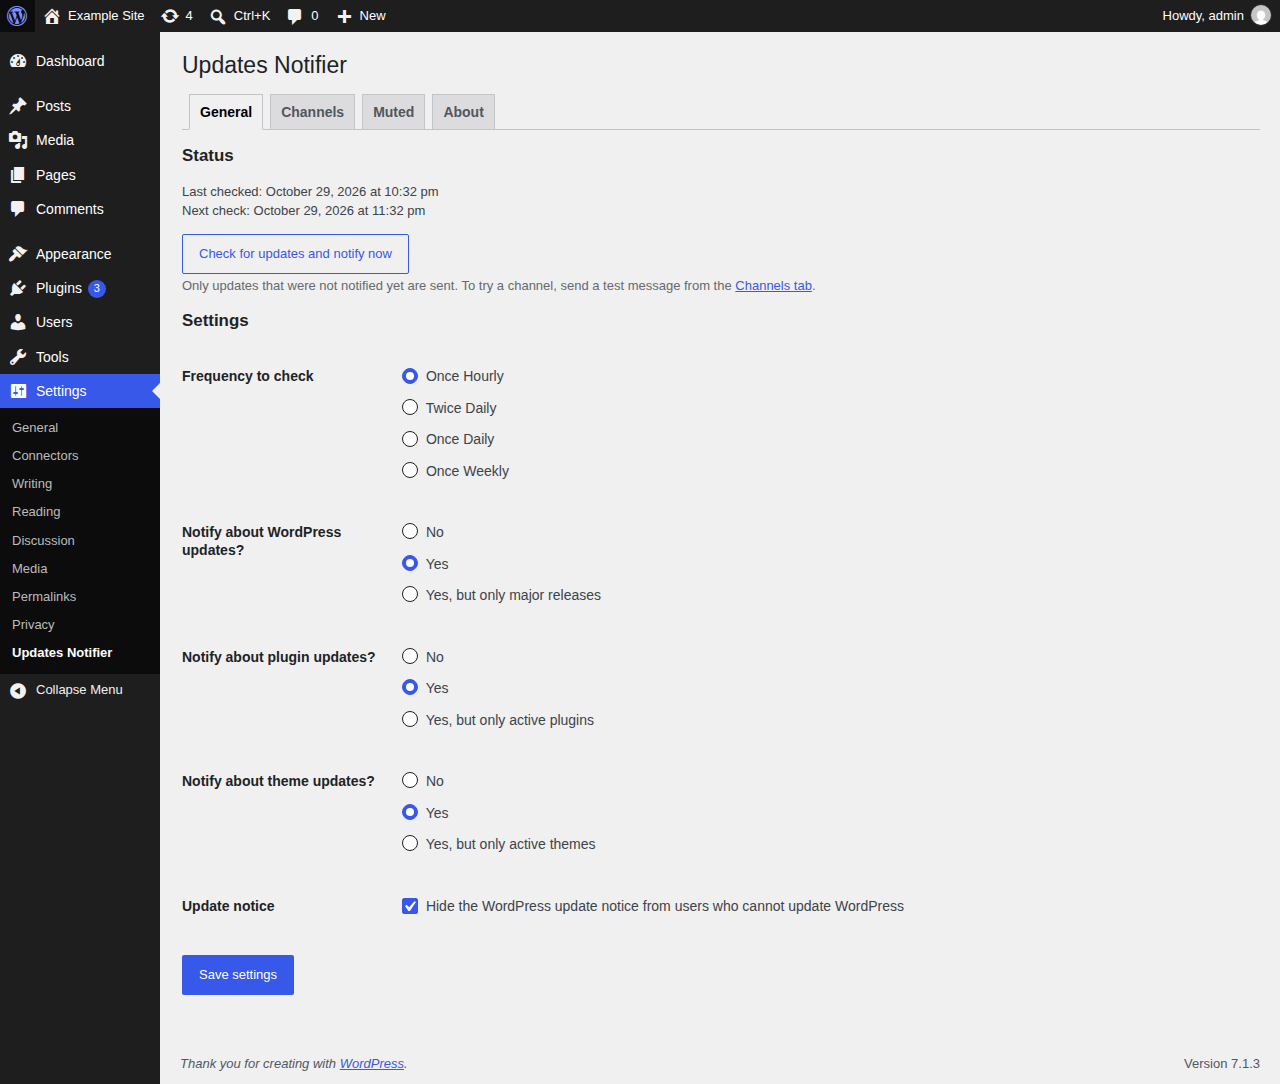
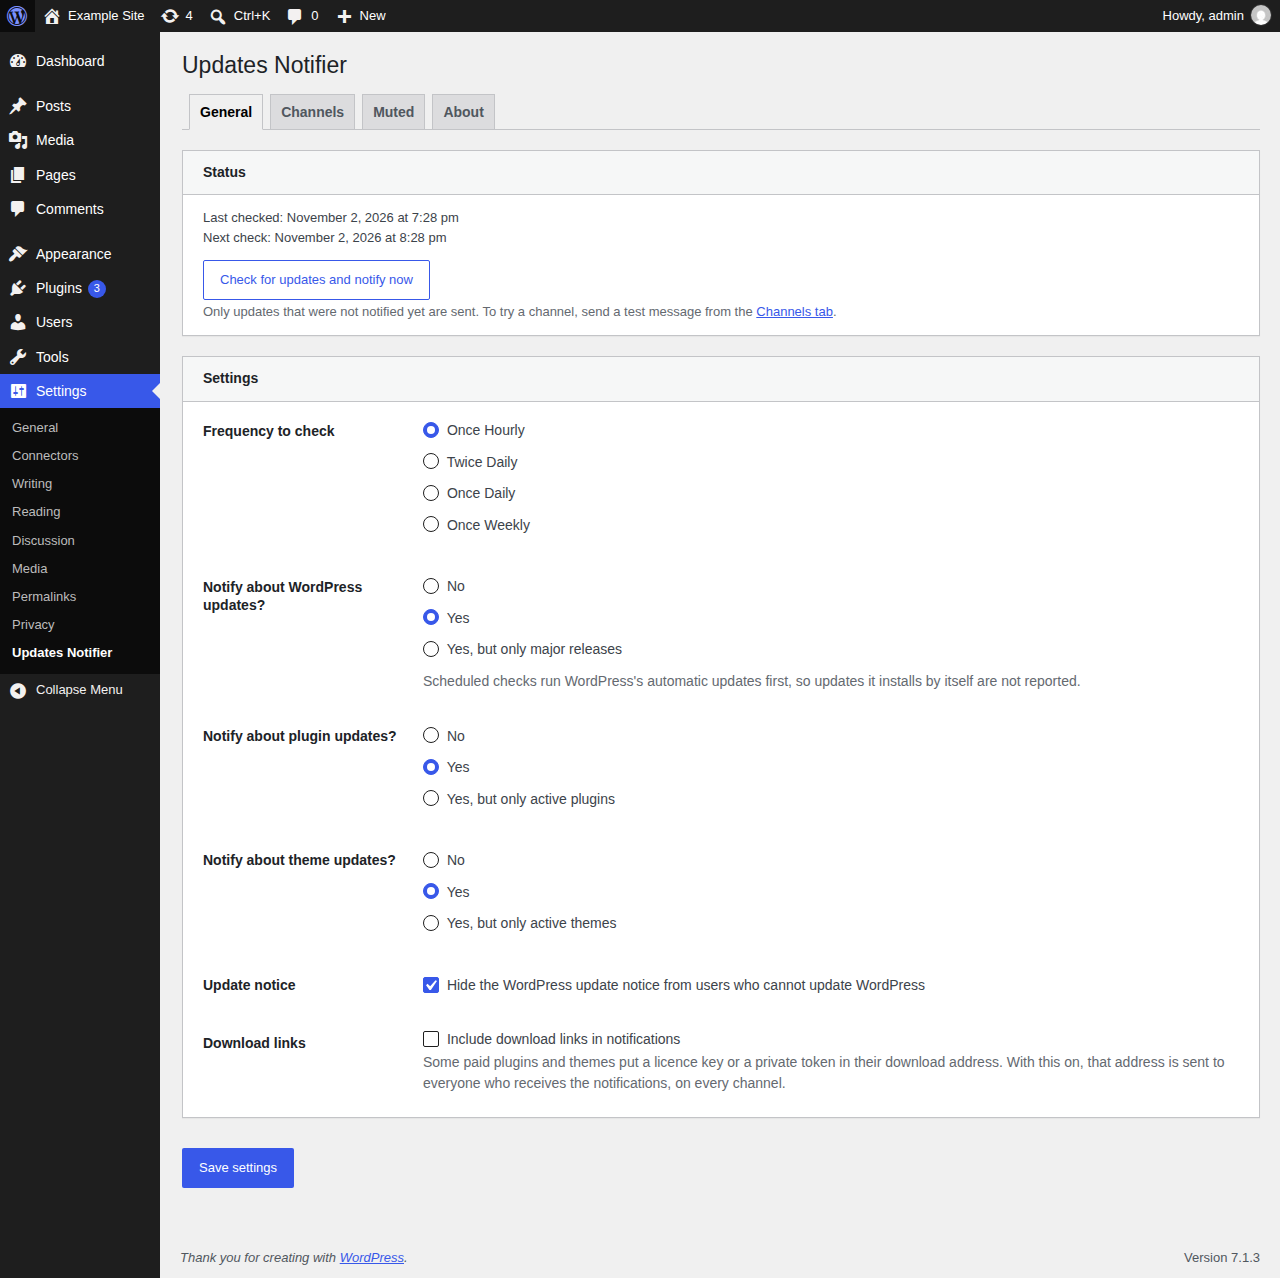
feat(admin): show the general and about tabs as panels
The channel form's sections became postbox-like panels, so the General
and About tabs, still bare headings and form tables, no longer matched.
Status and each About block are now section panels whose h2 is the
title bar, and the settings form is a fieldset panel whose legend holds
its h2, with rows from do_settings_fields(). The heading outline is
unchanged.

The title bar of a collapsed field group was drawn with negative
margins on its summary, which put it off to the right and past the
panel's edge. The details box now has no padding, so the summary fills
it, and the fieldset inside is padded instead.

Screenshot 1 is regenerated.

Refs #372

diff --git a/assets/css/admin.css b/assets/css/admin.css
@@ -65,10 +65,12 @@
 }
 
 /*
- * Sections of the channel form: Channel, Routing, Settings and each field group. Core gives a fieldset no visible frame,
- * so each is a panel like a postbox: a white box with a grey title bar. The legend (or the summary of a collapsed
- * group) is floated so it sits inside the box as that bar instead of on its border.
+ * Panels, like core's postboxes: a white box with a grey title bar. They hold the Status and Settings of the General
+ * tab, the blocks of the About tab, and the sections of the channel form (Channel, Routing, Settings and each field
+ * group). A section of form controls is a fieldset whose legend holds its heading; other content is a section whose
+ * first heading is the bar. Core gives a fieldset no visible frame, hence the box.
  */
+.sc-wpun-panel,
 .sc-wpun-form-section,
 .sc-wpun-field-group,
 .sc-wpun-field-group-details {
@@ -81,9 +83,10 @@
 	box-shadow: 0 1px 1px rgba(0, 0, 0, 0.04);
 }
 
+/* The title bar. A legend is floated so it sits inside the box instead of on its border. */
+.sc-wpun-panel > legend,
 .sc-wpun-form-section > legend,
-.sc-wpun-field-group > legend:not(.screen-reader-text),
-.sc-wpun-field-group-details > summary {
+.sc-wpun-field-group > legend:not(.screen-reader-text) {
 	float: left;
 	box-sizing: border-box;
 	width: calc(100% + 40px);
@@ -93,16 +96,31 @@
 	background: #f6f7f7;
 }
 
+.sc-wpun-panel > .sc-wpun-panel-title {
+	margin: 0 -20px 4px;
+	padding: 12px 20px;
+	border-bottom: 1px solid #c3c4c7;
+	background: #f6f7f7;
+}
+
+.sc-wpun-panel > legend h2,
+.sc-wpun-form-section > legend h3,
+.sc-wpun-field-group > legend h3 {
+	margin: 0;
+}
+
+.sc-wpun-panel > .sc-wpun-panel-title,
+.sc-wpun-panel > legend h2,
 .sc-wpun-form-section > legend h3,
 .sc-wpun-field-group > legend h3,
 .sc-wpun-field-group-details > summary {
-	margin: 0;
 	font-size: 14px;
 	font-weight: 600;
 	line-height: 1.4;
 }
 
-/* What follows the bar starts below it. */
+/* What follows a floated bar starts below it. */
+.sc-wpun-panel > legend + *,
 .sc-wpun-form-section > legend + *,
 .sc-wpun-field-group > legend + * {
 	clear: both;
@@ -112,26 +130,23 @@
 	padding-top: 12px;
 }
 
-/* A collapsed group: the summary is the bar, with core's disclosure triangle, and the fieldset inside has no frame. */
+/*
+ * A collapsed group: the summary is the bar, with the disclosure triangle, and the fieldset inside carries the padding.
+ * The box itself has none, so the bar fills it without negative margins.
+ */
+.sc-wpun-field-group-details {
+	padding: 0;
+}
+
 .sc-wpun-field-group-details > summary {
-	float: none;
 	display: list-item;
+	padding: 12px 20px;
+	background: #f6f7f7;
 	cursor: pointer;
 }
 
-.sc-wpun-field-group-details:not([open]) {
-	padding-bottom: 0;
-}
-
-.sc-wpun-field-group-details:not([open]) > summary {
-	border-bottom: 0;
-}
-
-.sc-wpun-field-group-details > .sc-wpun-field-group {
-	margin: 0;
-	padding: 0;
-	border: 0;
-	box-shadow: none;
+.sc-wpun-field-group-details[open] > summary {
+	border-bottom: 1px solid #c3c4c7;
 }
 
 .sc-wpun-field-group-details > summary:focus-visible {
@@ -139,18 +154,40 @@
 	outline-offset: -2px;
 }
 
+.sc-wpun-field-group-details > .sc-wpun-field-group {
+	margin: 0;
+	padding: 0 20px 8px;
+	border: 0;
+	background: transparent;
+	box-shadow: none;
+}
+
 @media screen and (max-width: 782px) {
+	.sc-wpun-panel,
 	.sc-wpun-form-section,
-	.sc-wpun-field-group,
-	.sc-wpun-field-group-details {
+	.sc-wpun-field-group {
 		padding: 0 12px 8px;
 	}
 
+	.sc-wpun-panel > legend,
 	.sc-wpun-form-section > legend,
-	.sc-wpun-field-group > legend:not(.screen-reader-text),
-	.sc-wpun-field-group-details > summary {
+	.sc-wpun-field-group > legend:not(.screen-reader-text) {
 		width: calc(100% + 24px);
 		margin: 0 -12px;
 		padding: 12px;
+	}
+
+	.sc-wpun-panel > .sc-wpun-panel-title {
+		margin-right: -12px;
+		margin-left: -12px;
+		padding: 12px;
+	}
+
+	.sc-wpun-field-group-details > summary {
+		padding: 12px;
+	}
+
+	.sc-wpun-field-group-details > .sc-wpun-field-group {
+		padding: 0 12px 8px;
 	}
 }

diff --git a/includes/admin/class-about-tab.php b/includes/admin/class-about-tab.php
@@ -68,60 +68,72 @@ class About_Tab {
 		);
 		?>
 		<div class="sc-wpun-about">
-			<h2><?php esc_html_e( 'About the plugin', 'wp-updates-notifier' ); ?></h2>
-			<p><?php esc_html_e( 'WP Updates Notifier checks your site for WordPress core, plugin and theme updates and tells you about each new version once. It is free and open source, with no tracking and no account to sign up for.', 'wp-updates-notifier' ); ?></p>
-			<ul>
-				<li><?php echo wp_kses( $this->link( 'documentation', __( 'Documentation', 'wp-updates-notifier' ) ), $allowed ); ?></li>
-				<li><?php echo wp_kses( $this->link( 'github', __( 'GitHub', 'wp-updates-notifier' ) ), $allowed ); ?></li>
-				<li><?php echo wp_kses( $this->link( 'wordpress_org', __( 'WordPress.org', 'wp-updates-notifier' ) ), $allowed ); ?></li>
-			</ul>
+			<section class="sc-wpun-panel">
+				<h2 class="sc-wpun-panel-title"><?php esc_html_e( 'About the plugin', 'wp-updates-notifier' ); ?></h2>
+				<p><?php esc_html_e( 'WP Updates Notifier checks your site for WordPress core, plugin and theme updates and tells you about each new version once. It is free and open source, with no tracking and no account to sign up for.', 'wp-updates-notifier' ); ?></p>
+				<ul>
+					<li><?php echo wp_kses( $this->link( 'documentation', __( 'Documentation', 'wp-updates-notifier' ) ), $allowed ); ?></li>
+					<li><?php echo wp_kses( $this->link( 'github', __( 'GitHub', 'wp-updates-notifier' ) ), $allowed ); ?></li>
+					<li><?php echo wp_kses( $this->link( 'wordpress_org', __( 'WordPress.org', 'wp-updates-notifier' ) ), $allowed ); ?></li>
+				</ul>
+			</section>
 
-			<h2><?php esc_html_e( 'Help and bugs', 'wp-updates-notifier' ); ?></h2>
-			<ul>
-				<li>
+			<section class="sc-wpun-panel">
+				<h2 class="sc-wpun-panel-title"><?php esc_html_e( 'Help and bugs', 'wp-updates-notifier' ); ?></h2>
+				<ul>
+					<li>
+						<?php
+						// translators: %s: Link to the WordPress.org support forum.
+						echo wp_kses( sprintf( esc_html__( 'Questions: ask in the %s.', 'wp-updates-notifier' ), $this->link( 'support', __( 'support forum', 'wp-updates-notifier' ) ) ), $allowed );
+						?>
+					</li>
+					<li>
+						<?php
+						// translators: %s: Link to the GitHub issues.
+						echo wp_kses( sprintf( esc_html__( 'Bugs and ideas: open an issue on %s.', 'wp-updates-notifier' ), $this->link( 'issues', __( 'GitHub', 'wp-updates-notifier' ) ) ), $allowed );
+						?>
+					</li>
+					<li>
+						<?php
+						// translators: %s: Link to the security policy.
+						echo wp_kses( sprintf( esc_html__( 'Security problems: please report them privately, as the %s explains.', 'wp-updates-notifier' ), $this->link( 'security', __( 'security policy', 'wp-updates-notifier' ) ) ), $allowed );
+						?>
+					</li>
+				</ul>
+			</section>
+
+			<section class="sc-wpun-panel">
+				<h2 class="sc-wpun-panel-title"><?php esc_html_e( 'Leave a review', 'wp-updates-notifier' ); ?></h2>
+				<p>
 					<?php
-					// translators: %s: Link to the WordPress.org support forum.
-					echo wp_kses( sprintf( esc_html__( 'Questions: ask in the %s.', 'wp-updates-notifier' ), $this->link( 'support', __( 'support forum', 'wp-updates-notifier' ) ) ), $allowed );
+					// translators: %s: Link to write a review on WordPress.org.
+					echo wp_kses( sprintf( esc_html__( 'Like it? %s. It helps other people find the plugin.', 'wp-updates-notifier' ), $this->link( 'review', __( 'Leave a review on WordPress.org', 'wp-updates-notifier' ) ) ), $allowed );
 					?>
-				</li>
-				<li>
-					<?php
-					// translators: %s: Link to the GitHub issues.
-					echo wp_kses( sprintf( esc_html__( 'Bugs and ideas: open an issue on %s.', 'wp-updates-notifier' ), $this->link( 'issues', __( 'GitHub', 'wp-updates-notifier' ) ) ), $allowed );
-					?>
-				</li>
-				<li>
-					<?php
-					// translators: %s: Link to the security policy.
-					echo wp_kses( sprintf( esc_html__( 'Security problems: please report them privately, as the %s explains.', 'wp-updates-notifier' ), $this->link( 'security', __( 'security policy', 'wp-updates-notifier' ) ) ), $allowed );
-					?>
-				</li>
-			</ul>
+				</p>
+			</section>
 
-			<h2><?php esc_html_e( 'Leave a review', 'wp-updates-notifier' ); ?></h2>
-			<p>
-				<?php
-				// translators: %s: Link to write a review on WordPress.org.
-				echo wp_kses( sprintf( esc_html__( 'Like it? %s. It helps other people find the plugin.', 'wp-updates-notifier' ), $this->link( 'review', __( 'Leave a review on WordPress.org', 'wp-updates-notifier' ) ) ), $allowed );
-				?>
-			</p>
+			<section class="sc-wpun-panel">
+				<h2 class="sc-wpun-panel-title"><?php esc_html_e( 'Donate', 'wp-updates-notifier' ); ?></h2>
+				<p><?php esc_html_e( 'WP Updates Notifier is free. If it saves you time and you would like to say thanks, a donation helps keep it maintained.', 'wp-updates-notifier' ); ?></p>
+				<p><?php echo wp_kses( $this->link( 'donate', __( 'Ways to donate', 'wp-updates-notifier' ) ), $allowed ); ?></p>
+			</section>
 
-			<h2><?php esc_html_e( 'Donate', 'wp-updates-notifier' ); ?></h2>
-			<p><?php esc_html_e( 'WP Updates Notifier is free. If it saves you time and you would like to say thanks, a donation helps keep it maintained.', 'wp-updates-notifier' ); ?></p>
-			<p><?php echo wp_kses( $this->link( 'donate', __( 'Ways to donate', 'wp-updates-notifier' ) ), $allowed ); ?></p>
+			<section class="sc-wpun-panel">
+				<h2 class="sc-wpun-panel-title"><?php esc_html_e( 'About the developer', 'wp-updates-notifier' ); ?></h2>
+				<p><strong><?php esc_html_e( 'Scott Cariss', 'wp-updates-notifier' ); ?></strong></p>
+				<p><?php esc_html_e( 'I have been a software engineer for over 20 years and I am now a Lead Platform Engineer, building the platforms other engineers ship on. I first released WP Updates Notifier on WordPress.org in 2011, and it now runs on around 30,000 sites.', 'wp-updates-notifier' ); ?></p>
+				<ul>
+					<li><?php echo wp_kses( $this->link( 'author_github', __( 'Scott Cariss on GitHub', 'wp-updates-notifier' ) ), $allowed ); ?></li>
+					<li><?php echo wp_kses( $this->link( 'author_linkedin', __( 'Scott Cariss on LinkedIn', 'wp-updates-notifier' ) ), $allowed ); ?></li>
+				</ul>
+			</section>
 
-			<h2><?php esc_html_e( 'About the developer', 'wp-updates-notifier' ); ?></h2>
-			<p><strong><?php esc_html_e( 'Scott Cariss', 'wp-updates-notifier' ); ?></strong></p>
-			<p><?php esc_html_e( 'I have been a software engineer for over 20 years and I am now a Lead Platform Engineer, building the platforms other engineers ship on. I first released WP Updates Notifier on WordPress.org in 2011, and it now runs on around 30,000 sites.', 'wp-updates-notifier' ); ?></p>
-			<ul>
-				<li><?php echo wp_kses( $this->link( 'author_github', __( 'Scott Cariss on GitHub', 'wp-updates-notifier' ) ), $allowed ); ?></li>
-				<li><?php echo wp_kses( $this->link( 'author_linkedin', __( 'Scott Cariss on LinkedIn', 'wp-updates-notifier' ) ), $allowed ); ?></li>
-			</ul>
-
-			<h2><?php esc_html_e( 'For power users', 'wp-updates-notifier' ); ?></h2>
-			<p><?php esc_html_e( 'You can hide this tab with a line in wp-config.php:', 'wp-updates-notifier' ); ?></p>
-			<pre><code>define( 'SC_WPUN_SETTING_SHOW_ABOUT', false );</code></pre>
-			<p><?php esc_html_e( 'The setting is never stored and has no field on the settings screen. An environment variable, a configuration source or the sc_wpun_config_value filter can set it too. If you hide the tab, please consider a donation or a review in return.', 'wp-updates-notifier' ); ?></p>
+			<section class="sc-wpun-panel">
+				<h2 class="sc-wpun-panel-title"><?php esc_html_e( 'For power users', 'wp-updates-notifier' ); ?></h2>
+				<p><?php esc_html_e( 'You can hide this tab with a line in wp-config.php:', 'wp-updates-notifier' ); ?></p>
+				<pre><code>define( 'SC_WPUN_SETTING_SHOW_ABOUT', false );</code></pre>
+				<p><?php esc_html_e( 'The setting is never stored and has no field on the settings screen. An environment variable, a configuration source or the sc_wpun_config_value filter can set it too. If you hide the tab, please consider a donation or a review in return.', 'wp-updates-notifier' ); ?></p>
+			</section>
 		</div>
 		<?php
 	}

diff --git a/tests/wp/test-settings-tabs.php b/tests/wp/test-settings-tabs.php
@@ -153,6 +153,25 @@ class Test_Settings_Tabs extends WPUN_Test_Case {
 	}
 
 	/**
+	 * The status is a panel with its heading as the title, and the settings a fieldset panel whose legend holds the heading.
+	 */
+	public function test_general_tab_panels() {
+		$xpath = $this->xpath( $this->html() );
+
+		$status = $xpath->query( '//section[@class="sc-wpun-panel"][h2[@class="sc-wpun-panel-title"][normalize-space()="Status"]]' );
+		$this->assertSame( 1, $status->length );
+		$this->assertSame( 'h2', $xpath->query( '*[1]', $status->item( 0 ) )->item( 0 )->nodeName, 'The heading is the first thing in the panel.' );
+		$this->assertSame( 1, $xpath->query( './/*[contains(@class,"sc-wpun-last-check")]', $status->item( 0 ) )->length );
+		$this->assertSame( 1, $xpath->query( './/form[contains(@class,"sc-wpun-check-now")]', $status->item( 0 ) )->length );
+
+		$settings = $xpath->query( '//form[contains(@action,"options.php")]/fieldset[@class="sc-wpun-panel"][legend/h2[normalize-space()="Settings"]]' );
+		$this->assertSame( 1, $settings->length );
+		$this->assertSame( 1, $xpath->query( 'table[@class="form-table"][@role="presentation"]', $settings->item( 0 ) )->length );
+		$this->assertGreaterThan( 0, $xpath->query( 'table//input[starts-with(@name,"sc_wpun_settings[")]', $settings->item( 0 ) )->length );
+		$this->assertSame( 0, $xpath->query( '//form[contains(@action,"options.php")]//input[starts-with(@name,"sc_wpun_settings[")][not(ancestor::fieldset[@class="sc-wpun-panel"])]' )->length, 'Every setting is in the panel.' );
+	}
+
+	/**
 	 * The Channels tab is listed, can be chosen and draws the channel list instead of the settings form.
 	 */
 	public function test_channels_is_listed_and_drawn() {

diff --git a/includes/admin/class-settings-page.php b/includes/admin/class-settings-page.php
@@ -501,7 +501,8 @@ class Settings_Page {
 		$options    = $this->state->get();
 		$next_check = wp_next_scheduled( Scheduler::CRON_NAME );
 		?>
-		<h2><?php esc_html_e( 'Status', 'wp-updates-notifier' ); ?></h2>
+		<section class="sc-wpun-panel">
+		<h2 class="sc-wpun-panel-title"><?php esc_html_e( 'Status', 'wp-updates-notifier' ); ?></h2>
 		<p>
 			<span class="description sc-wpun-last-check">
 			<?php
@@ -527,13 +528,22 @@ class Settings_Page {
 		</p>
 
 		<?php $this->check_now->render(); ?>
+		</section>
 
 		<form action="<?php echo esc_url( $this->network_context->is_network() ? network_admin_url( 'edit.php?action=' . self::NETWORK_SAVE_ACTION ) : admin_url( 'options.php' ) ); ?>" method="post">
 			<?php
 			// Saving goes back to the page it was sent from, which is this tab: the tab links carry `tab=general`.
 			settings_fields( 'sc_wpun_settings' );
-			do_settings_sections( 'wp-updates-notifier' );
 			?>
+			<fieldset class="sc-wpun-panel">
+				<legend><h2><?php esc_html_e( 'Settings', 'wp-updates-notifier' ); ?></h2></legend>
+				<table class="form-table" role="presentation">
+					<?php
+					// The rows only: the section's heading is the legend, so the settings are a panel like the sections of the channel form.
+					do_settings_fields( 'wp-updates-notifier', 'sc_wpun_settings_main' );
+					?>
+				</table>
+			</fieldset>
 			<?php submit_button( __( 'Save settings', 'wp-updates-notifier' ) ); ?>
 		</form>
 		<?php

diff --git a/tests/wp/test-about-tab.php b/tests/wp/test-about-tab.php
@@ -95,6 +95,16 @@ class Test_About_Tab extends WPUN_Test_Case {
 		$html        = $this->html();
 		$this->assertStringContainsString( 'sc-wpun-about', $html );
 		$this->assertSame( 1, preg_match_all( '/<h1[ >]/', $html ) );
+
+		// Each block is a panel whose first child is its heading.
+		$doc = new DOMDocument();
+		libxml_use_internal_errors( true );
+		$doc->loadHTML( '<html><body>' . $html . '</body></html>' );
+		libxml_clear_errors();
+		$xpath = new DOMXPath( $doc );
+		$this->assertSame( 6, $xpath->query( '//div[@class="sc-wpun-about"]//h2' )->length );
+		$this->assertSame( 6, $xpath->query( '//div[@class="sc-wpun-about"]/section[@class="sc-wpun-panel"][*[1][self::h2][@class="sc-wpun-panel-title"]]' )->length );
+		$this->assertSame( 0, $xpath->query( '//div[@class="sc-wpun-about"]/*[not(self::section)]' )->length );
 		foreach ( About_Tab::links() as $slug => $url ) {
 			$this->assertStringContainsString( 'href="' . esc_url( $url ) . '"', $html, $slug );
 		}
